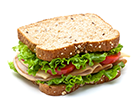
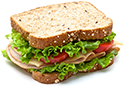
edit size sandwich

diff --git a/css/styles.css b/css/styles.css
@@ -180,8 +180,8 @@ li {list-style: none;}
 }
 .sandwich-image {
 	background: url(../images/sandwich.png) no-repeat center center;
-	width: 138px;
-	height: 102px;
+	width: 124px;
+	height: 86px;
 	display: inline-block;
 	margin-right: 5px;
 }
